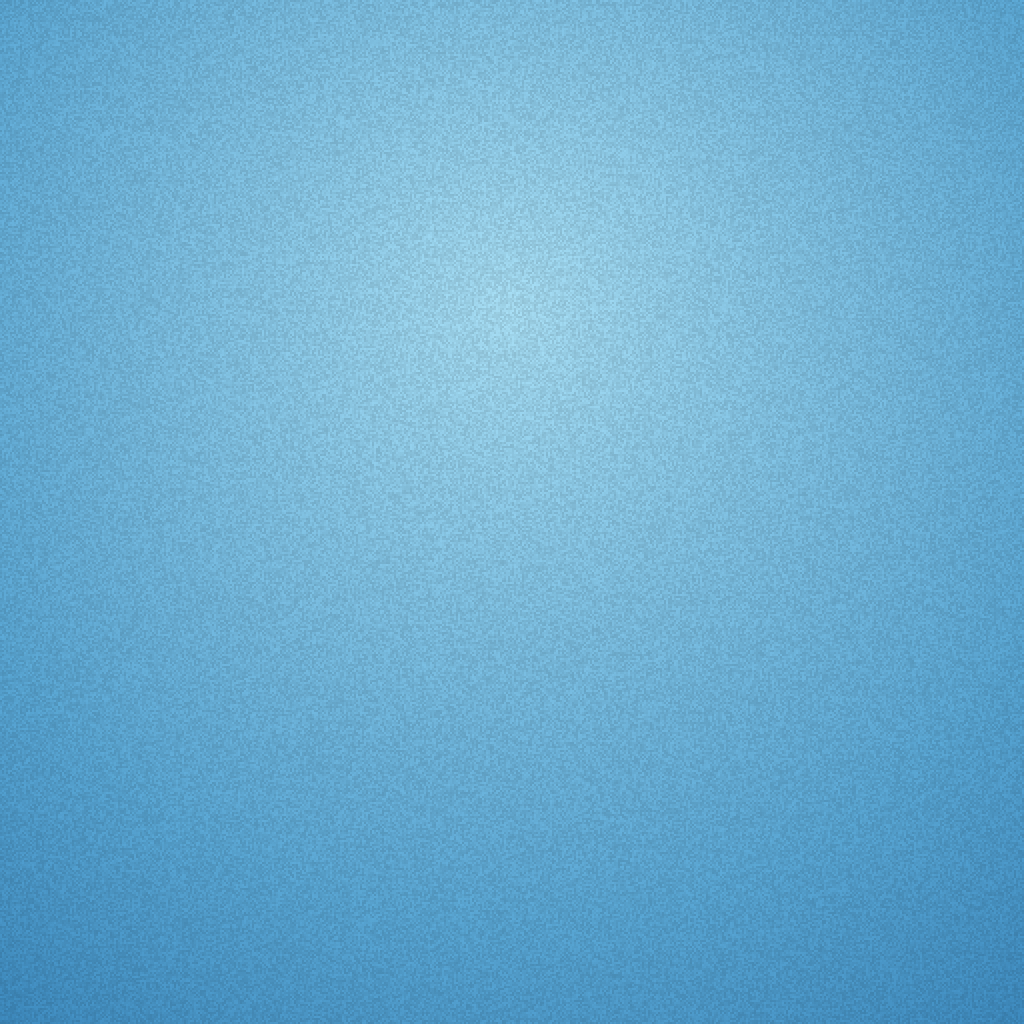
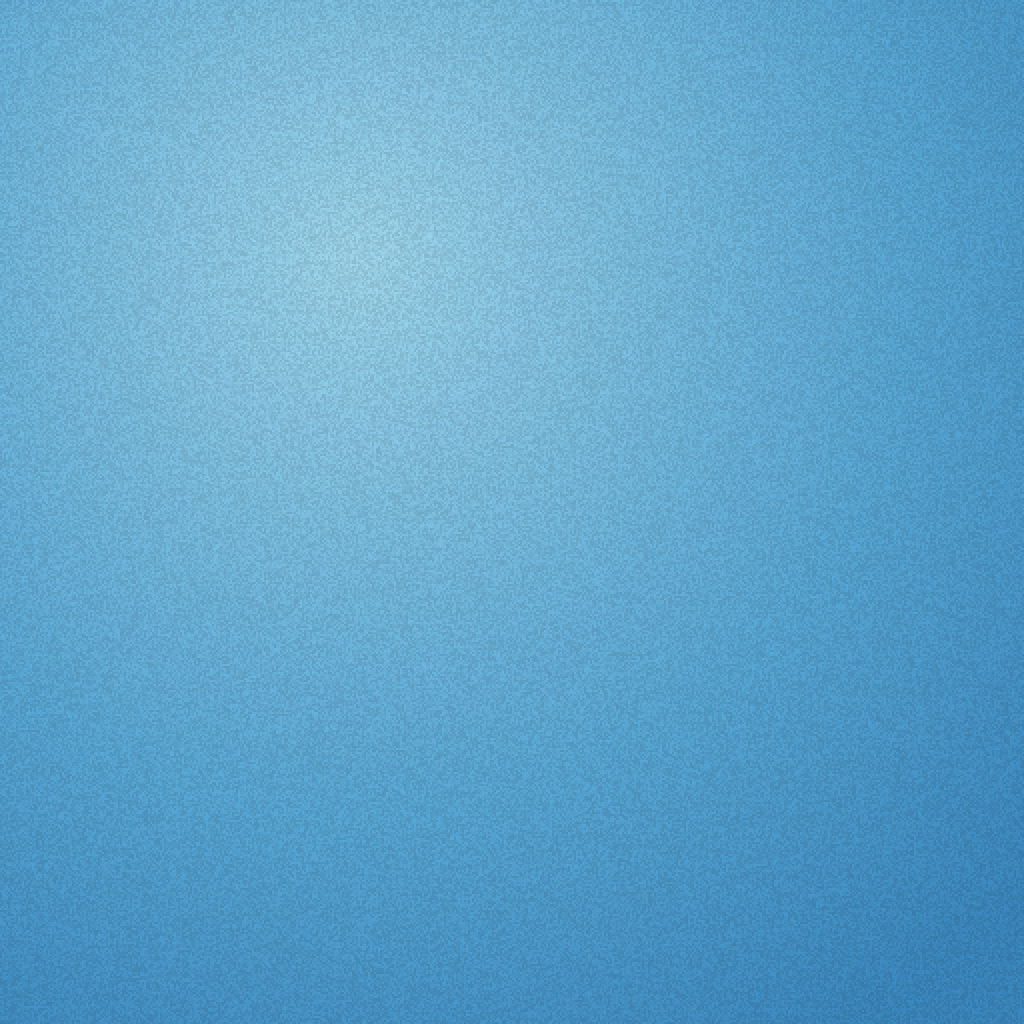
Ícono oficial: la portada papercut (Nilo agarrado a la canasta) con grano; globo entero en iOS, borde crema tan grueso como el de Nilo y base redondeada
Claude-Session: https://claude.ai/code/session_017FkcQpDzkf2gnNUK4w8AxS

Changed region(s): [[0.4688, 0.125, 0.9688, 0.6875]]

diff --git a/scripts/iconos/portada.html b/scripts/iconos/portada.html
@@ -18,7 +18,7 @@ const sky=`<defs>
  <radialGradient id="sky" cx=".35" cy=".25" r=".9"><stop offset="0" stop-color="#A6E0F7"/><stop offset=".6" stop-color="#5DB0E0"/><stop offset="1" stop-color="#3E8FC8"/></radialGradient>
  <filter id="sh" x="-20%" y="-20%" width="140%" height="140%"><feDropShadow dx="0" dy="10" stdDeviation="10" flood-color="#173a5c" flood-opacity=".28"/></filter>
  <filter id="grain"><feTurbulence type="fractalNoise" baseFrequency=".9" numOctaves="2" seed="3"/><feColorMatrix values="0 0 0 0 0  0 0 0 0 0  0 0 0 0 0  0 0 0 .07 0"/><feComposite in2="SourceGraphic" operator="in"/></filter>
- <clipPath id="env"><path d="M95 -40 L1010 -40 L1010 250 Q960 330 860 352 L320 352 Q180 330 95 240Z"/></clipPath>
+ <clipPath id="env"><path d="M160 -60 L1020 -60 L1020 120 C1020 250 880 340 770 356 L410 356 C300 340 160 250 160 120Z"/></clipPath>
 </defs><rect width="1024" height="1024" fill="url(#sky)"/>`;
 // isla lejana con faro (a lo lejos, abajo a la derecha)
 const island=`<g transform="translate(${L.ix??-820} ${L.iy??-40})">
@@ -31,10 +31,10 @@ const island=`<g transform="translate(${L.ix??-820} ${L.iy??-40})">
 // globo (sobre, recortado arriba) con gajos rojos y crema, aro dorado
 const gores=[[95,'#E8452C'],[230,'#FBF1DC'],[360,'#E8452C'],[490,'#FBF1DC'],[620,'#E8452C'],[750,'#FBF1DC'],[880,'#E8452C']];
 const env=`<g ${sh}>
- <path d="M95 -40 L1010 -40 L1010 250 Q960 330 860 352 L320 352 Q180 330 95 240Z" fill="${CR}" stroke="${CR}" stroke-width="16" stroke-linejoin="round"/>
+ <path d="M160 -60 L1020 -60 L1020 120 C1020 250 880 340 770 356 L410 356 C300 340 160 250 160 120Z" fill="${CR}" stroke="${CR}" stroke-width="34" stroke-linejoin="round"/>
  <g clip-path="url(#env)">${gores.map(([x,f],i)=>`<path d="M${x-40} -60 Q${x+20} 150 ${x+(590-x)*.45} 360 L${x+130+(590-x-130)*.45} 360 Q${x+150} 150 ${x+90} -60Z" fill="${f}"/>`).join('')}
-  <path d="M95 -40 L320 -40 Q200 120 300 352 L95 352Z" fill="#000" opacity=".10"/><path d="M820 -40 L1010 -40 L1010 352 L860 352 Q930 140 820 -40Z" fill="#000" opacity=".14"/>
-  <path d="M180 300 Q590 380 1000 290 L1010 360 L95 360Z" fill="#000" opacity=".12"/></g>
+  <path d="M160 -60 L360 -60 Q250 120 380 360 L160 360Z" fill="#000" opacity=".10"/><path d="M820 -40 L1010 -40 L1010 352 L860 352 Q930 140 820 -40Z" fill="#000" opacity=".14"/>
+  <path d="M200 260 Q590 360 990 260 L1020 370 L160 370Z" fill="#000" opacity=".12"/></g>
 </g>
 <g ${sh}><ellipse cx="590" cy="352" rx="300" ry="34" fill="none" stroke="${CR}" stroke-width="40"/><ellipse cx="590" cy="352" rx="300" ry="34" fill="none" stroke="#E9B43C" stroke-width="22"/><ellipse cx="590" cy="347" rx="300" ry="34" fill="none" stroke="#F7D46E" stroke-width="7" stroke-dasharray="900 2000"/></g>`;
 // cuerdas

diff --git a/scripts/iconos/render_portada.py b/scripts/iconos/render_portada.py
@@ -1,5 +1,5 @@
 # Ícono oficial «portada»: Nilo en el globo en papercut (scripts/iconos/portada.html). Necesita el juego servido en localhost:8765.
-# Después: npm run assets
+# Es el ícono oficial. Después: npm run assets
 import asyncio,shutil,sys
 from playwright.async_api import async_playwright
 from PIL import Image
@@ -14,5 +14,13 @@ async def main():
       await pg.screenshot(path='/tmp/'+out,omit_background=tr,clip={'x':0,'y':0,'width':1024,'height':1024}); Image.open('/tmp/'+out).convert(m).save(OUT+out); await pg.close()
     await b.close()
 asyncio.run(main())
+import random
+from PIL import ImageChops
+def grano(path):  # grano de cartulina suave, como el resto del juego
+  im=Image.open(path); mode=im.mode; im=im.convert('RGBA'); W,H=im.size
+  random.seed(7); n=Image.new('L',(W//2,H//2)); n.putdata([random.randint(222,255) for _ in range((W//2)*(H//2))]); n=n.resize((W,H),Image.NEAREST)
+  rgb=ImageChops.multiply(im.convert('RGB'),Image.merge('RGB',(n,n,n)))
+  Image.merge('RGBA',(*rgb.split(),im.split()[3])).convert(mode).save(path)
+for f in ['icon.png','icon-foreground.png','icon-background.png']: grano(OUT+f)
 if OUT=='assets/':
   im=Image.open('assets/icon.png').convert('RGB'); im.resize((180,180),Image.LANCZOS).save('paper-voyager/apple-touch-icon.png'); im.resize((512,512),Image.LANCZOS).save('paper-voyager/app-icon-512.png')
